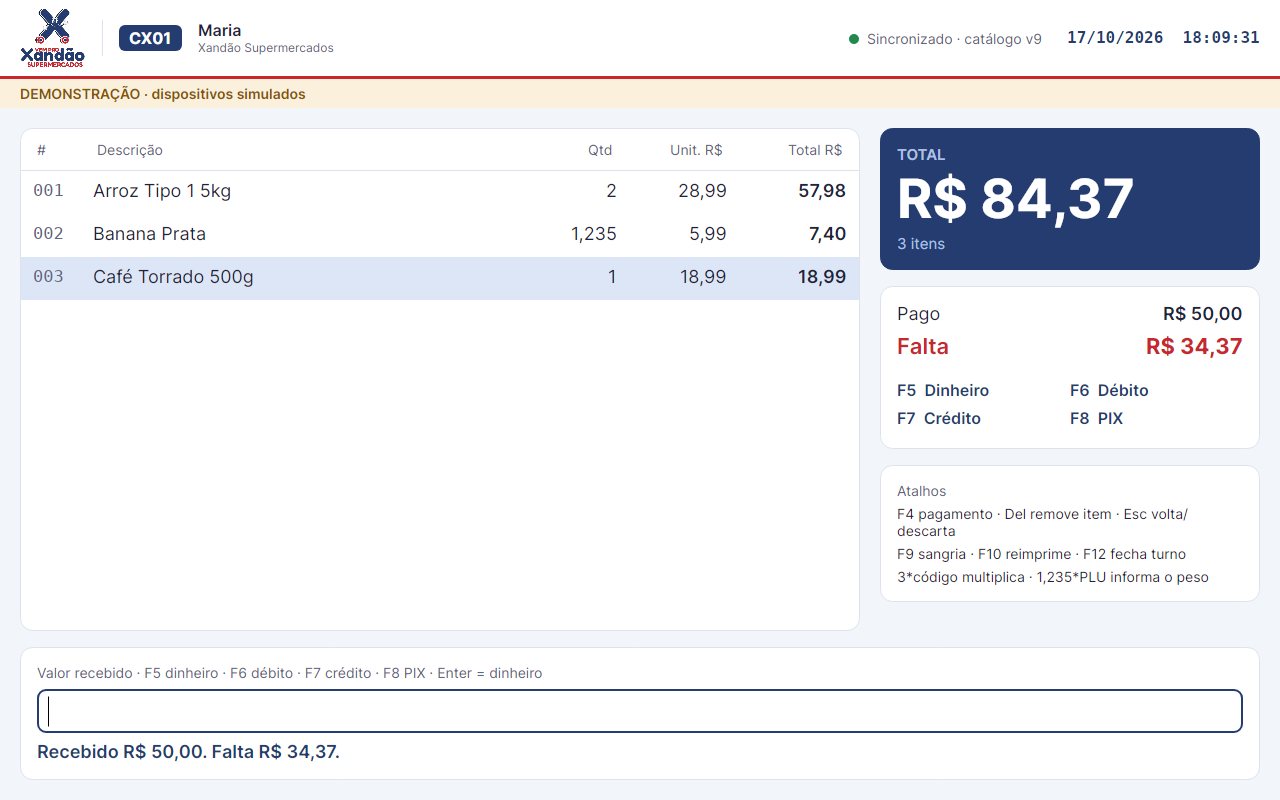
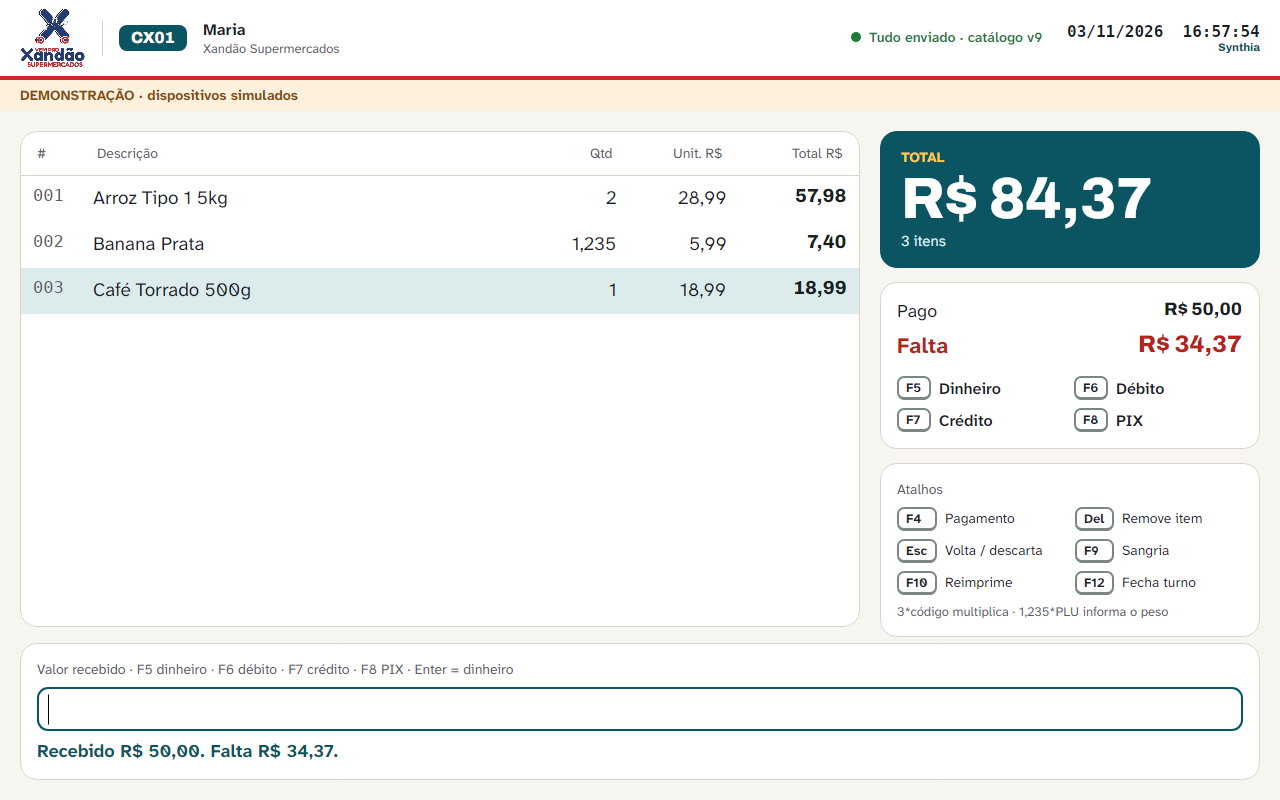
docs: cashier screenshots with Synthia UI and client-zero store branding

diff --git a/tests/Synthia.Terminal.App.Tests/CashierScreenTests.cs b/tests/Synthia.Terminal.App.Tests/CashierScreenTests.cs
@@ -41,7 +41,23 @@ public sealed class CashierScreenTests : IDisposable
         _vm = new MainWindowViewModel(_host);
         _window = new MainWindow { DataContext = _vm, Width = 1280, Height = 800, WindowState = WindowState.Normal };
         _window.Show();
+        if (ScreenshotDir is not null) ApplyClientZeroStore();
         Pump();
+    }
+
+    private static string? ScreenshotDir =>
+        Environment.GetEnvironmentVariable("SYNTHIA_SCREENSHOTS") is { Length: > 0 } dir ? dir : null;
+
+    /// <summary>Capturas da documentação mostram a co-marca real: o cadastro do Xandão, cliente zero.</summary>
+    private void ApplyClientZeroStore()
+    {
+        var root = new DirectoryInfo(AppContext.BaseDirectory);
+        while (root is not null && !File.Exists(Path.Combine(root.FullName, "docs", "img", "logo-xandao.png"))) root = root.Parent;
+        if (root is null) return;
+        var logo = File.ReadAllBytes(Path.Combine(root.FullName, "docs", "img", "logo-xandao.png"));
+        var profile = new StoreProfile(Guid.Parse("0199f000-0000-7000-8000-00000000a001"), "Xandão Supermercados", "Xandão Comércio de Alimentos Ltda",
+            "", "", "Av. Brasil, 1000 - Centro - São Paulo/SP", "Vem pro Xandão!", "#253C70", "#C8272E", "xandao", 1);
+        _host.Get<StoreProfileCache>().Apply(profile, logo);
     }
 
     public void Dispose()
@@ -72,8 +88,7 @@ public sealed class CashierScreenTests : IDisposable
 
     private void Snapshot(string name)
     {
-        var dir = Environment.GetEnvironmentVariable("SYNTHIA_SCREENSHOTS");
-        if (string.IsNullOrEmpty(dir)) return;
+        if (ScreenshotDir is not { } dir) return;
         Directory.CreateDirectory(dir);
         _window.CaptureRenderedFrame()?.Save(Path.Combine(dir, $"{name}.png"), new Avalonia.Media.Imaging.PngBitmapEncoderOptions());
     }
